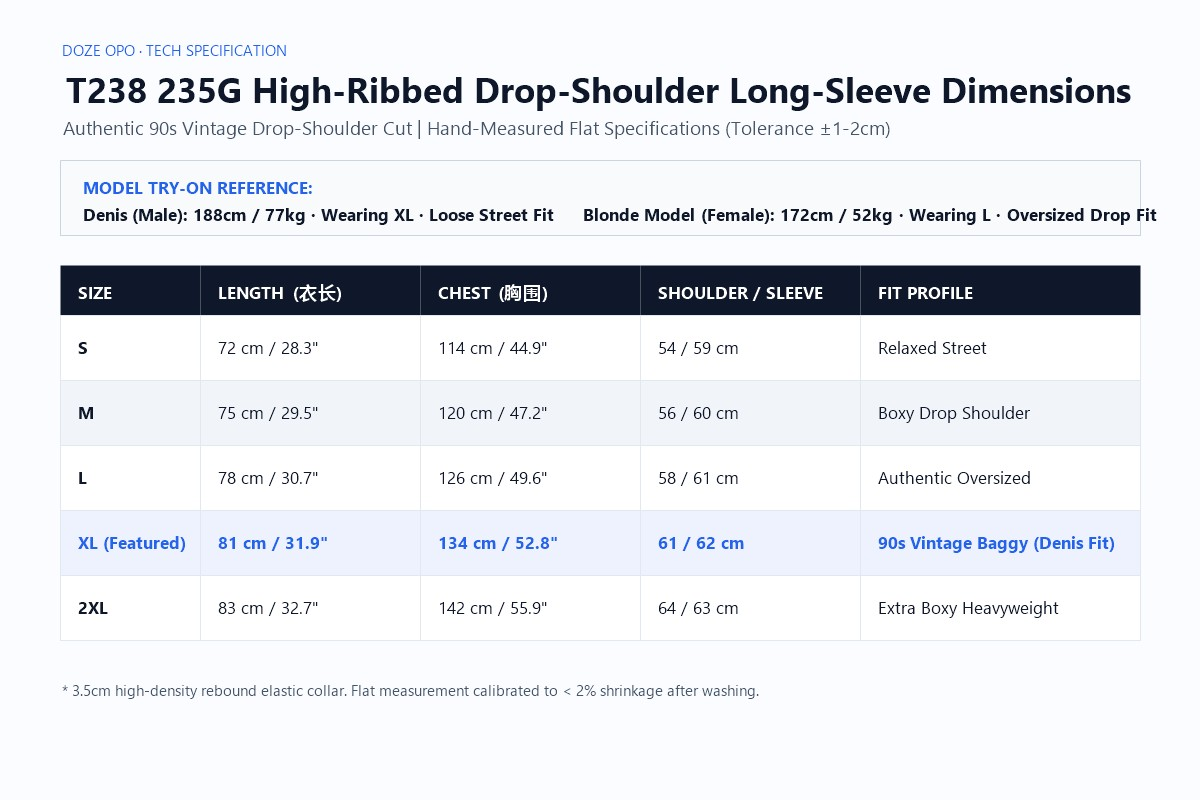
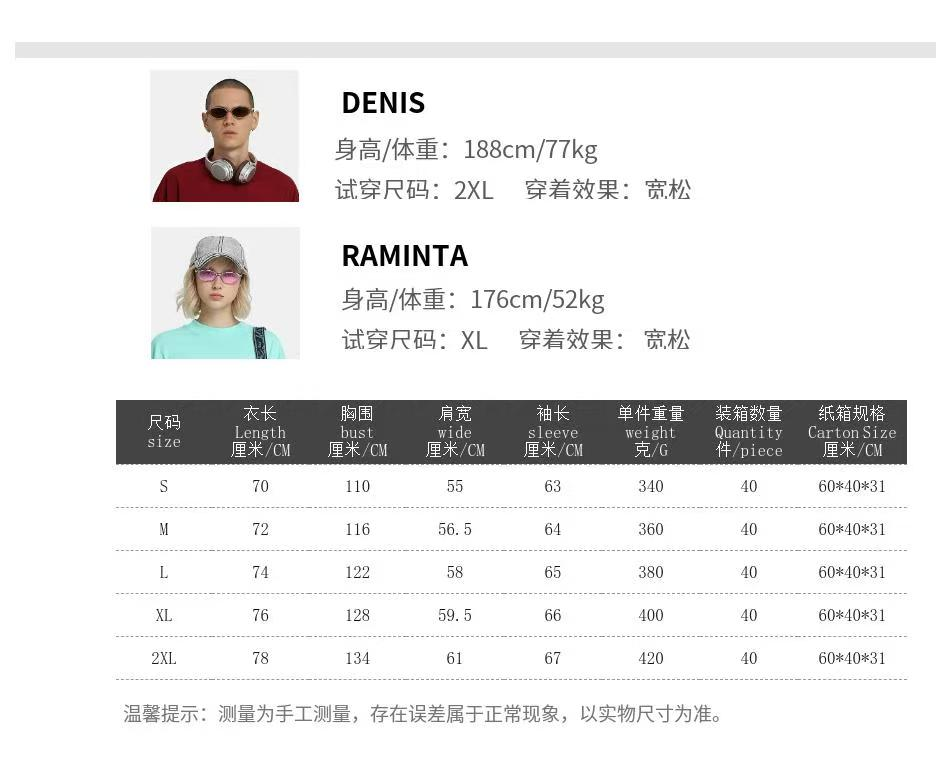
feat(t238): add authentic size charts for T238 from factory folder and enable S-2XL size selector

diff --git a/app.js b/app.js
@@ -799,6 +799,16 @@ function renderDynamicLookbook(prod) {
       'assets/products/T235/editorial/model_16.jpg'
     ];
   } else if (prod.id === 'T238') {
+    sizeGuideSectionHtml = `
+      <div class="pdp-lookbook-section">
+        <div class="pdp-lookbook-header">
+          <span class="lb-tag">SIZING GUIDE</span>
+          <h3>Size Chart &amp; Fit Recommendations</h3>
+        </div>
+        <img src="assets/products/T238/size/size_chart_garment.jpg" alt="T238 Size Chart &amp; Model Sizing" class="pdp-lb-img">
+        <img src="assets/products/T238/size/size_chart_recommend.jpg" alt="T238 Height &amp; Weight Size Recommendations" class="pdp-lb-img">
+      </div>
+    `;
     const craftDetails = [
       { img: 'assets/products/T238/detail/detail_1.jpg', title: '01 高螺纹领口', desc: '3.5cm High-Density Rebound Elastic Ribbed Collar' },
       { img: 'assets/products/T238/detail/detail_2.jpg', title: '02 通肩压条', desc: 'Collar-to-Shoulder Reinforced Bound Taping' },

diff --git a/products_data.js b/products_data.js
@@ -612,7 +612,14 @@
                  "priceUSD":  17.5,
                  "name":  "T238 235G High-Ribbed Collar Long-Sleeve Tee",
                  "img":  "assets/products/T238/main/1.jpg",
-                 "gram":  "235 GSM Combed Cotton"
+                 "gram":  "235 GSM Combed Cotton",
+                 "sizes":  [
+                               "S",
+                               "M",
+                               "L",
+                               "XL",
+                               "2XL"
+                           ]
              },
     "T275":  {
                  "gallery":  [

diff --git a/index.html b/index.html
@@ -945,7 +945,7 @@
   <!-- Floating Toast Notification -->
   <div class="app-toast" id="appToast">Notification</div>
 
-  <script src="products_data.js?v=70"></script>
-  <script src="app.js?v=70"></script>
+  <script src="products_data.js?v=71"></script>
+  <script src="app.js?v=71"></script>
 </body>
 </html>
